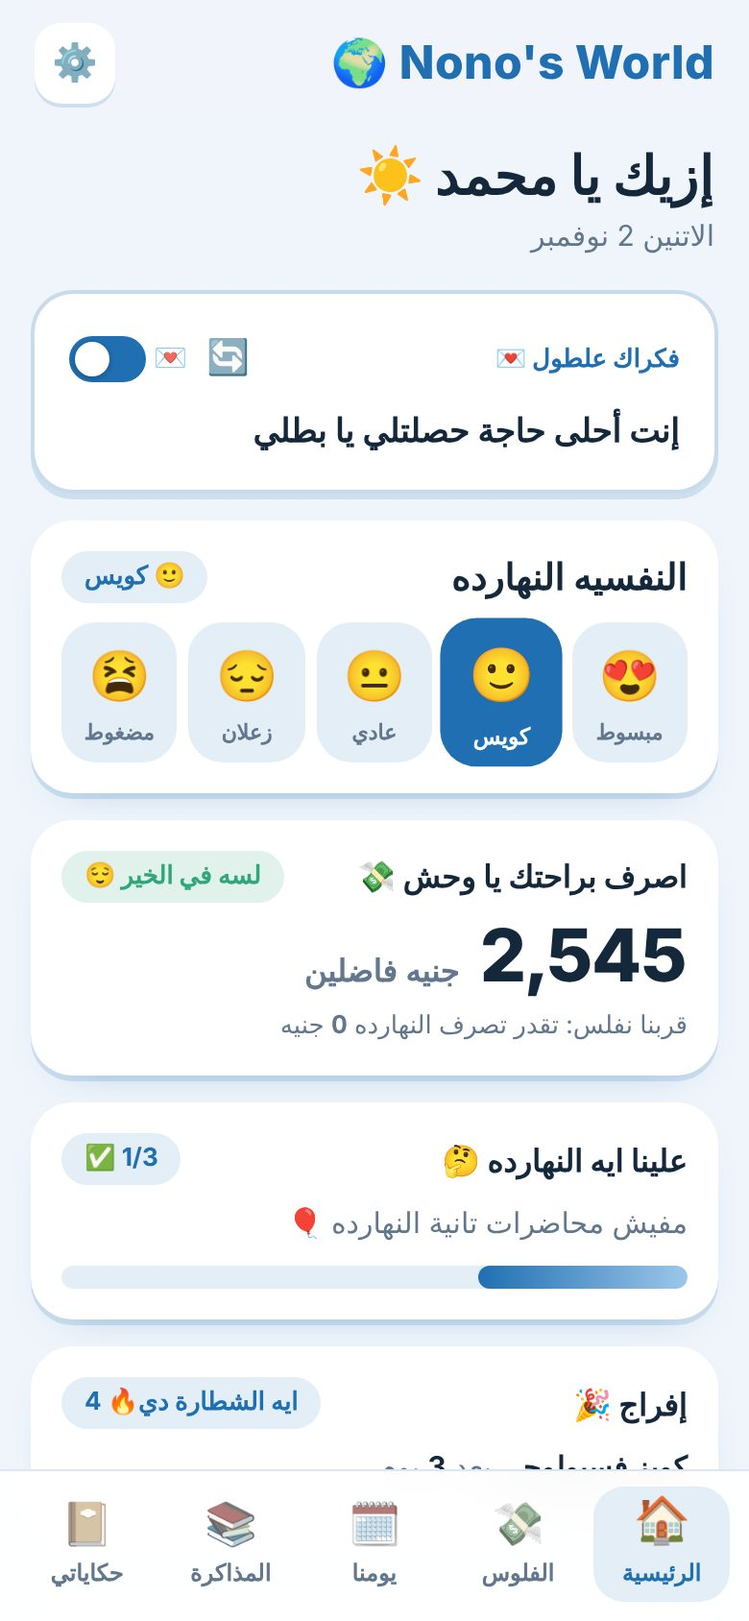
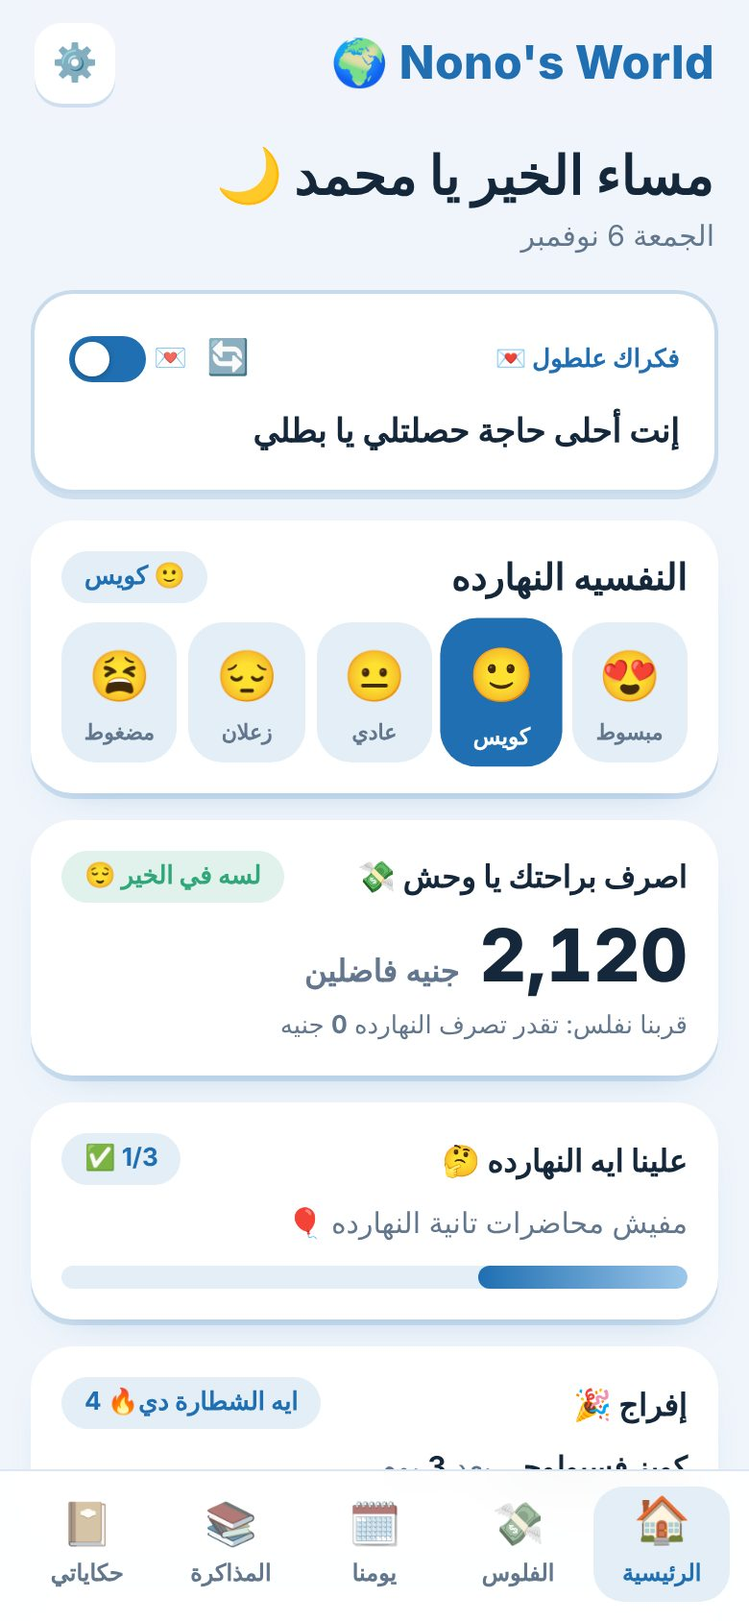
Site: precise boy wording, rating card masculine, new 'and more' features section, boy screenshots for money/diary/study; app: boy care category, EN she's listening
Claude-Session: https://claude.ai/code/session_01L6yT9p9SYsiwm5kwWL3RGK

Changed region(s): [[0.4, 0.0924, 0.9538, 0.154], [0.7385, 0.5545, 0.9231, 0.6161], [0.3077, 0.0924, 0.3692, 0.154]]

diff --git a/site/index.html b/site/index.html
@@ -203,6 +203,8 @@ footer{text-align:center;color:var(--muted);padding:40px 20px 60px}
   .logo{font-size:18px}.logo img{width:34px;height:34px}
 }
 @media (prefers-reduced-motion:reduce){*{animation:none!important;transition:none!important}}
+  .band.band6{grid-template-columns:repeat(3,1fr)}
+  @media (max-width:820px){ .band.band6{grid-template-columns:1fr} }
 </style>
 </head>
 <body>
@@ -255,7 +257,7 @@ footer{text-align:center;color:var(--muted);padding:40px 20px 60px}
 
   <section class="block">
     <div class="wrap">
-      <div class="sec-title reveal"><h2><span data-l="ar">كل اللي محتاجاه، في مكان واحد</span><span data-l="en">Everything you need, in one place</span></h2>
+      <div class="sec-title reveal"><h2><span data-l="ar" data-boy="كل اللي محتاجه، في مكان واحد">كل اللي محتاجاه، في مكان واحد</span><span data-l="en">Everything you need, in one place</span></h2>
         <p><span data-l="ar">من غير إعلانات، ومن غير لف بين عشر تطبيقات.</span><span data-l="en">No ads, no juggling ten different apps.</span></p></div>
 
       <div class="features">
@@ -281,7 +283,7 @@ footer{text-align:center;color:var(--muted);padding:40px 20px 60px}
           <div class="f-media"><div class="phone sm"><div class="screen"><img data-src="diary" class="on" alt="" loading="lazy"></div></div></div>
           <div><div class="em">📔</div>
             <h3><span data-l="ar">دفتر حكاياتي… وحد بيرد عليكي</span><span data-l="en">A diary that talks back</span></h3>
-            <p><span data-l="ar">احكي زي الشات بالظبط. هيرد عليكي بكلام شريكك اللي كاتبه بنفسه، ولو هو فاضي هيرد عليكي بجد.</span><span data-l="en">Write like you're chatting. Replies come in your partner's own words, and when they're around, they reply for real.</span></p>
+            <p><span data-l="ar" data-boy="احكي زي الشات بالظبط. هيرد عليك بكلام شريكتك اللي كاتباه بنفسها، ولو هي فاضية هترد عليك بجد.">احكي زي الشات بالظبط. هيرد عليكي بكلام شريكك اللي كاتبه بنفسه، ولو هو فاضي هيرد عليكي بجد.</span><span data-l="en">Write like you're chatting. Replies come in your partner's own words, and when they're around, they reply for real.</span></p>
             <ul><li><span data-l="ar">💬 "لو قالت كذا… يبقى الرد كذا"</span><span data-l="en">💬 "If she says this… reply with that"</span></li><li><span data-l="ar">✨ شات جديد في أي وقت، والقديم محفوظ</span><span data-l="en">✨ Start a fresh chat anytime, old ones are saved</span></li></ul>
           </div>
         </div>
@@ -291,7 +293,7 @@ footer{text-align:center;color:var(--muted);padding:40px 20px 60px}
           <div>
             <h3><span data-l="ar">النفسيه والدلع</span><span data-l="en">Mood and pamper time</span></h3>
             <p><span data-l="ar">مودك النهارده، كوبايات المية، نجوم الاهتمام بنفسك، ساعات النوم، والصلوات الخمس. وفي أيام البريود التطبيق بيدلّعك أكتر ويقول لشريكك يهتم بيكي.</span><span data-l="en">Today's mood, water, self-care stars, sleep and the five prayers. On your period the app pampers you more and nudges your partner to care extra.</span></p>
-            <ul><li><span data-l="ar">⏰ صحّيني: منبّه برسالة صباح الخير منه</span><span data-l="en">⏰ Wake me up: an alarm with a good-morning note from them</span></li><li><span data-l="ar">💌 فاكرك علطول: رسايل حب طول اليوم</span><span data-l="en">💌 Thinking of you: love notes all day</span></li></ul>
+            <ul><li><span data-l="ar" data-boy="⏰ صحّيني: منبّه برسالة صباح الخير منها">⏰ صحّيني: منبّه برسالة صباح الخير منه</span><span data-l="en">⏰ Wake me up: an alarm with a good-morning note from them</span></li><li><span data-l="ar" data-boy="💌 فكراك علطول: رسايل حب طول اليوم (للمرتبطين)">💌 فاكرك علطول: رسايل حب طول اليوم (للمرتبطين)</span><span data-l="en">💌 Thinking of you: love notes all day</span></li></ul>
           </div>
         </div>
 
@@ -299,7 +301,7 @@ footer{text-align:center;color:var(--muted);padding:40px 20px 60px}
           <div class="f-media"><div class="phone sm"><div class="screen"><img data-src="partner" class="on" alt="" loading="lazy"></div></div></div>
           <div><div class="em">💞</div>
             <h3><span data-l="ar">إنتي وشريك حياتك</span><span data-l="en">You and your partner</span></h3>
-            <p><span data-l="ar">اربطوا حسابكم بكود. هو يشوف اللي إنتي سامحة بيه بس، ويجيله تنبيه أول ما تبقي مضايقة علشان يكون جنبك. وهو كمان بيسجّل يومه وإنتي تشوفيه.</span><span data-l="en">Link with a code. They only see what you allow, and get an alert when you're upset so they can be there. They log their day too, and you see it.</span></p>
+            <p><span data-l="ar" data-boy="اربطوا حسابكم بكود. هي تشوف اللي إنت سامح بيه بس، ويجيلها تنبيه أول ما تبقى مضايق علشان تكون جنبك. وهي كمان بتسجّل يومها وإنت تشوفه. ولكم شات &quot;إحنا 💞&quot; خاص بيكم إنتوا الاتنين.">اربطوا حسابكم بكود. هو يشوف اللي إنتي سامحة بيه بس، ويجيله تنبيه أول ما تبقي مضايقة علشان يكون جنبك. وهو كمان بيسجّل يومه وإنتي تشوفيه. وليكم شات "إحنا 💞" خاص بيكم إنتوا الاتنين.</span><span data-l="en">Link with a code. They only see what you allow, and get an alert when you're upset so they can be there. They log their day too, and you see it.</span></p>
             <ul><li><span data-l="ar">🔒 إنتي اللي بتختاري هو يشوف إيه</span><span data-l="en">🔒 You choose what they see</span></li><li><span data-l="ar">🧢 للولاد كمان: الكلام كله بصيغة الولد</span><span data-l="en">🧢 For guys too, worded just for them</span></li></ul>
           </div>
         </div>
@@ -324,6 +326,20 @@ footer{text-align:center;color:var(--muted);padding:40px 20px 60px}
           <p><span data-l="ar">اعملي جروب وابعتي الكود لصحابك، وادردشوا مع بعض في شات منفصل عن حكاياتك.</span><span data-l="en">Make a group, send the code to your friends, and chat together, separate from your diary.</span></p>
           <ul><li><span data-l="ar">🔗 كود واحد والكل يدخل</span><span data-l="en">🔗 One code and everyone's in</span></li><li><span data-l="ar">🚩 بلاغ وفلتر للشتايم في الجروبات كمان</span><span data-l="en">🚩 Report button and bad-word filter in groups too</span></li></ul>
         </div>
+      </div>
+    </div>
+  </section>
+
+  <section class="block">
+    <div class="wrap">
+      <div class="sec-title reveal"><h2><span data-l="ar">وكمان ✨</span><span data-l="en">And there's more ✨</span></h2><p><span data-l="ar">حاجات صغيرة بتفرق في يومك.</span><span data-l="en">Little things that make your day.</span></p></div>
+      <div class="band band6 reveal">
+        <div><b>🕌 <span data-l="ar">الصلاة والأذكار</span><span data-l="en">Prayer & azkar</span></b><p><span data-l="ar">مواعيد الصلاة على حسب مكانك، وإشعار الأذان، وأذكار الصباح والمساء بعدّاد، وتذكير سورة الكهف يوم الجمعة وصيام الاثنين والخميس (للمسلمين).</span><span data-l="en">Prayer times for your location, adhan alerts, morning & evening azkar with a counter, and Friday Kahf reminders (for Muslims).</span></p></div>
+        <div><b>👭 <span data-l="ar">صحابك</span><span data-l="en">Your friends</span></b><p><span data-l="ar">ضيفي صحابك بكود، وشاركيهم "عملت إيه النهارده" بدوسة (نزلت الجيم، خدت دش…)، واتكلموا في شات. ومش بيشوفوا حاجة غير اللي إنتي اخترتيه.</span><span data-l="en">Add friends with a code, share "what I did today" in a tap, and chat. They only see what you choose.</span></p></div>
+        <div><b>🟢 <span data-l="ar">فاتح دلوقتي</span><span data-l="en">Online now</span></b><p><span data-l="ar">علامة خضرا تعرّفك إن شريكك أو صاحبك فاتح التطبيق دلوقتي، و"آخر ظهور" لو مش فاتح.</span><span data-l="en">A green dot shows when your partner or friend has the app open, with "last seen" otherwise.</span></p></div>
+        <div><b>🎓 <span data-l="ar">جامعة، مدرسة، أو شغل</span><span data-l="en">Uni, school or work</span></b><p><span data-l="ar">اختاري إنتي فين: محاضرات للجامعة، دروس للمدرسة، ولو متخرّجة يبقى قسم الشغل اللي وراكي ومواعيده.</span><span data-l="en">Lectures for uni, lessons for school, and a work tracker with deadlines once you graduate.</span></p></div>
+        <div><b>🔔 <span data-l="ar">إشعارات وتذكيرات</span><span data-l="en">Alerts & reminders</span></b><p><span data-l="ar">رسايل الشريك والصحاب والجروبات توصلك حتى والتطبيق مقفول، وتذكير كل كام ساعة تسجّلي مصاريفك ومهامك.</span><span data-l="en">Messages reach you even when the app is closed, plus reminders every few hours to log spending and tasks.</span></p></div>
+        <div><b>💪 <span data-l="ar">تشجيع على قدّك</span><span data-l="en">Encouragement your way</span></b><p><span data-l="ar">لو مش مرتبطة، التطبيق بيكلّمك بتشجيع بس من غير أي كلام حب. ولو مرتبطة، تقدري تقفلي كلام الحب بزرار.</span><span data-l="en">Not in a relationship? Just encouragement, no love notes. In one? Turn love notes off with a switch.</span></p></div>
       </div>
     </div>
   </section>
@@ -416,9 +432,9 @@ footer{text-align:center;color:var(--muted);padding:40px 20px 60px}
       <div class="sec-title reveal"><h2><span data-l="ar">أسئلة بتتسأل كتير</span><span data-l="en">Questions people ask</span></h2></div>
       <div class="faq reveal">
         <details><summary><span data-l="ar">هو مجاني؟</span><span data-l="en">Is it free?</span></summary><p><span data-l="ar">أيوه، مجاني ومن غير إعلانات.</span><span data-l="en">Yes, free and without ads.</span></p></details>
-        <details><summary><span data-l="ar">لازم يكون عندي شريك؟</span><span data-l="en">Do I need a partner?</span></summary><p><span data-l="ar">لأ، التطبيق كامل لوحدك، والرسايل الحلوة موجودة جاهزة. الشريك بيزوّد الحلاوة بس 💞</span><span data-l="en">No, it works fully on your own with sweet messages built in. A partner just makes it sweeter 💞</span></p></details>
-        <details><summary><span data-l="ar">بياناتي في أمان؟</span><span data-l="en">Is my data safe?</span></summary><p><span data-l="ar">بياناتك متحفوظة أونلاين على حسابك، وشريكك بيشوف اللي إنتي سامحة بيه بس. وصاحب التطبيق يقدر يوصلها لأغراض الإدارة ومنع الإساءة.</span><span data-l="en">Your data is stored online on your account, and your partner sees only what you allow. The app owner can access it to run the app and stop abuse.</span></p></details>
-        <details><summary><span data-l="ar">نسيت الباسورد؟</span><span data-l="en">Forgot your password?</span></summary><p><span data-l="ar">دوسي "نسيتي الباسورد؟" في صفحة الدخول، وصاحب التطبيق هيتأكد إنه حسابك ويبعتلك باسورد مؤقت.</span><span data-l="en">Tap "Forgot password?" on the sign-in page. The app owner will check it's you and send a temporary password.</span></p></details>
+        <details><summary><span data-l="ar" data-boy="لازم يكون عندي شريكة؟">لازم يكون عندي شريك؟</span><span data-l="en">Do I need a partner?</span></summary><p><span data-l="ar" data-boy="لأ، التطبيق كامل لوحدك. ومن غير شريكة بيكلّمك بكلام تشجيع بس، ولما ترتبط يبقى فيه رسايل حب كمان 💞">لأ، التطبيق كامل لوحدك. ومن غير شريك بيكلّمك بكلام تشجيع بس، ولما ترتبطي يبقى فيه رسايل حب كمان 💞</span><span data-l="en">No, it works fully on your own with sweet messages built in. A partner just makes it sweeter 💞</span></p></details>
+        <details><summary><span data-l="ar">بياناتي في أمان؟</span><span data-l="en">Is my data safe?</span></summary><p><span data-l="ar" data-boy="بياناتك متحفوظة أونلاين على حسابك، وشريكتك بتشوف اللي إنت سامح بيه بس. وصاحب التطبيق يقدر يوصلها لأغراض الإدارة ومنع الإساءة.">بياناتك متحفوظة أونلاين على حسابك، وشريكك بيشوف اللي إنتي سامحة بيه بس. وصاحب التطبيق يقدر يوصلها لأغراض الإدارة ومنع الإساءة.</span><span data-l="en">Your data is stored online on your account, and your partner sees only what you allow. The app owner can access it to run the app and stop abuse.</span></p></details>
+        <details><summary><span data-l="ar">نسيت الباسورد؟</span><span data-l="en">Forgot your password?</span></summary><p><span data-l="ar" data-boy="دوس &quot;نسيت الباسورد؟&quot; في صفحة الدخول، وصاحب التطبيق هيتأكد إنه حسابك ويبعتلك باسورد مؤقت.">دوسي "نسيت الباسورد؟" في صفحة الدخول، وصاحب التطبيق هيتأكد إنه حسابك ويبعتلك باسورد مؤقت.</span><span data-l="en">Tap "Forgot password?" on the sign-in page. The app owner will check it's you and send a temporary password.</span></p></details>
         <details><summary><span data-l="ar">فيه إنجليزي؟</span><span data-l="en">Is there Arabic and English?</span></summary><p><span data-l="ar">أيوه، من الإعدادات تقدري تقلبيه English.</span><span data-l="en">Yes, switch between Arabic and English in Settings.</span></p></details>
       </div>
     </div>
@@ -433,7 +449,7 @@ footer{text-align:center;color:var(--muted);padding:40px 20px 60px}
   var root = document.documentElement;
   function setImgs(l){
     var boy = root.classList.contains("boy");
-    document.querySelectorAll("img[data-src]").forEach(function(im){ var n = im.getAttribute("data-src"); if (boy && (n === "home" || n === "study") && (im.closest("#carousel") || n === "home")) n = "boy-" + n; im.src = "img/" + n + "-" + l + ".jpg"; im.alt = ""; });
+    document.querySelectorAll("img[data-src]").forEach(function(im){ var n = im.getAttribute("data-src"); if (boy && ["home","study","money","diary"].indexOf(n) >= 0) n = "boy-" + n; im.src = "img/" + n + "-" + l + ".jpg"; im.alt = ""; });
     document.querySelectorAll("img[data-boy]").forEach(function(im){ im.src = "img/" + im.getAttribute("data-boy") + "-" + l + ".jpg"; im.alt = ""; });
   }
   function setLang(l){
@@ -455,13 +471,14 @@ footer{text-align:center;color:var(--muted);padding:40px 20px 60px}
   document.getElementById("lang").onclick = function(){ setLang(root.lang === "en" ? "ar" : "en"); };
 
   // girl / guy wording
-  var MASC = {"حمّلي":"حمّل","حمّليه":"حمّله","قيّمي":"قيّم","وجرّبي":"وجرّب","جرّبيه":"جرّبه","اختاري":"اختار","واختاري":"واختار","اصرفي":"اصرف","يا بسبوسه":"يا وحش","بسبوسه":"وحش","اظبطي":"اظبط","افتحي":"افتح","وافتحيه":"وافتحه","انزلي":"انزل","إنتي":"إنت","وإنتي":"وإنت","بتختاري":"بتختار","بتذاكري":"بتذاكر","بتقرري":"بتقرر","بيكي":"بيك","تبقي":"تبقى","تسجّليها":"تسجّلها","تشوفيه":"تشوفه","تصرفي":"تصرف","تقدري":"تقدر","تقفلي":"تقفل","تقلبيه":"تقلبه","تكتبي":"تكتب","جنبك":"جنبك","دوسي":"دوس","ودوسي":"ودوس","سامحة":"سامح","عليكي":"عليك","مضايقة":"مضايق","نسيتي":"نسيت","وأضيفي":"وأضيف","وارجعي":"وارجع","واعملي":"واعمل","وامشي":"وامشي","وتفكّي":"وتفكّ","وحطي":"وحط","وشوفي":"وشوف","وفعّلي":"وفعّل","ومعاكي":"ومعاك","وابعتي":"وابعت","اعملي":"اعمل","شريك حياتك":"شريكة حياتك","وشريك حياتك":"وشريكة حياتك","شريكك":"شريكتك","لشريكك":"لشريكتك","وشريكك":"وشريكتك","يطمّن":"تطمّن","ويرد":"وترد","ويفتكرك":"وتفتكرك","يدلّعك":"يدلّعك","بيدلّعك":"بيدلّعك","يهتم":"تهتم","يشوف":"تشوف","هو يشوف":"هي تشوف","يجيله":"يجيلها","يكون":"تكون","يرد":"ترد","هيرد":"هترد","وادردشوا":"وادردشوا"};
+  var MASC = {"حمّلي":"حمّل","صرفتي":"صرفت","ضيفي":"ضيف","وشاركيهم":"وشاركهم","اخترتيه":"اخترته","متخرّجة":"متخرّج","وراكي":"وراك","تسجّلي":"تسجّل","مرتبطة":"مرتبط","ابعتي":"ابعت","حمّليه":"حمّله","قيّمي":"قيّم","وجرّبي":"وجرّب","جرّبيه":"جرّبه","اختاري":"اختار","واختاري":"واختار","اصرفي":"اصرف","يا بسبوسه":"يا وحش","بسبوسه":"وحش","اظبطي":"اظبط","افتحي":"افتح","وافتحيه":"وافتحه","انزلي":"انزل","إنتي":"إنت","وإنتي":"وإنت","بتختاري":"بتختار","بتذاكري":"بتذاكر","بتقرري":"بتقرر","بيكي":"بيك","تبقي":"تبقى","تسجّليها":"تسجّلها","تشوفيه":"تشوفه","تصرفي":"تصرف","تقدري":"تقدر","تقفلي":"تقفل","تقلبيه":"تقلبه","تكتبي":"تكتب","جنبك":"جنبك","دوسي":"دوس","ودوسي":"ودوس","سامحة":"سامح","عليكي":"عليك","مضايقة":"مضايق","نسيتي":"نسيت","وأضيفي":"وأضيف","وارجعي":"وارجع","واعملي":"واعمل","وامشي":"وامشي","وتفكّي":"وتفكّ","وحطي":"وحط","وشوفي":"وشوف","وفعّلي":"وفعّل","ومعاكي":"ومعاك","وابعتي":"وابعت","اعملي":"اعمل","شريك حياتك":"شريكة حياتك","وشريك حياتك":"وشريكة حياتك","شريكك":"شريكتك","لشريكك":"لشريكتك","وشريكك":"وشريكتك","يطمّن":"تطمّن","ويرد":"وترد","ويفتكرك":"وتفتكرك","يدلّعك":"يدلّعك","بيدلّعك":"بيدلّعك","يهتم":"تهتم","يشوف":"تشوف","هو يشوف":"هي تشوف","يجيله":"يجيلها","يكون":"تكون","يرد":"ترد","هيرد":"هترد","وادردشوا":"وادردشوا"};
   var keys = Object.keys(MASC).sort(function(a,b){ return b.length - a.length; });
   var RE = new RegExp("(^|[^\\u0621-\\u064A\\u0671-\\u06D3])(" + keys.map(function(k){ return k.replace(/[.*+?^${}()|[\]\\]/g, "\\$&"); }).join("|") + ")(?![\\u0621-\\u064A\\u0671-\\u06D3])", "g");
   var orig = new Map();
   function walk(on){
     document.querySelectorAll('[data-l="ar"]').forEach(function(el){
-      if (el.closest("#gender") || el.closest(".ded") || el.closest(".ded-foot") || el.closest("#rv")) return;
+      if (el.closest("#gender") || el.closest(".ded") || el.closest(".ded-foot") || el.closest("#rv .review:not(.summary)")) return;
+      if (el.hasAttribute("data-boy")){ if (!el.hasAttribute("data-girl")) el.setAttribute("data-girl", el.textContent); el.textContent = on ? el.getAttribute("data-boy") : el.getAttribute("data-girl"); return; }
       var tw = document.createTreeWalker(el, NodeFilter.SHOW_TEXT), n;
       while ((n = tw.nextNode())){ if (!orig.has(n)) orig.set(n, n.nodeValue); var o = orig.get(n); n.nodeValue = on ? o.replace(RE, function(m, pre, w){ return pre + MASC[w]; }) : o; }
     });
@@ -473,7 +490,7 @@ footer{text-align:center;color:var(--muted);padding:40px 20px 60px}
   function setGender(g){
     root.classList.toggle("boy", g === "m");
     walk(g === "m");
-    document.querySelectorAll("#carousel img[data-src='home'], .features img[data-src='home']").forEach(function(im){ im.src = "img/" + (g === "m" ? "boy-home" : "home") + "-" + (root.lang || "ar") + ".jpg"; });
+    document.querySelectorAll("img[data-src='home'], img[data-src='money'], img[data-src='diary'], img[data-src='study']").forEach(function(im){ var n = im.getAttribute("data-src"); im.src = "img/" + (g === "m" ? "boy-" + n : n) + "-" + (root.lang || "ar") + ".jpg"; });
     document.querySelectorAll("#carousel img[data-src='study']").forEach(function(im){ im.src = "img/" + (g === "m" ? "boy-study" : "study") + "-" + (root.lang || "ar") + ".jpg"; });
     document.querySelectorAll(".gpick button").forEach(function(b){ b.setAttribute("aria-pressed", b.getAttribute("data-g") === g); });
     try { localStorage.setItem("nw-site-g", g); } catch(e){}

diff --git a/web/app.js b/web/app.js
@@ -46,7 +46,7 @@ const MOODS = [
 const CATS = [
   {k:"food",e:"🍔",t:"أكل",c:"#f08a5d"},{k:"ride",e:"🚕",t:"مواصلات",c:"#f6c445"},{k:"clothes",e:"👗",t:"لبس",c:"#e85d8a"},
   {k:"uni",e:"📚",t:"كلية",c:"#7f6ad6"},{k:"out",e:"🎡",t:"خروجات",c:"#43b3ae"},{k:"gift",e:"🎁",t:"هدايا",c:"#d65aa0"},
-  {k:"care",e:"💄",t:"ميكب وعناية",c:"#ff9fb7"},{k:"other",e:"✨",t:"حاجات تانية",c:"#a3a3b5"}
+  {k:"care", get e(){ return (typeof S !== "undefined" && S && S.user && S.user.gender === "m") ? "🧴" : "💄"; }, get t(){ return (typeof S !== "undefined" && S && S.user && S.user.gender === "m") ? "عناية شخصية" : "ميكب وعناية"; }, c:"#ff9fb7"},{k:"other",e:"✨",t:"حاجات تانية",c:"#a3a3b5"}
 ];
 const GTYPES = ["كويز","ميدترم","فاينل"];
 const SHARE = [["mood","النفسيه 💭"],["diary","دفتر حكاياتي 📔"],["study","المذاكرة والدرجات 📚"],["day","يومي ومهماتي 🗓"],["money","الفلوس 💸"],["care","الدلع"]];
@@ -209,7 +209,7 @@ const isMale = () => !!(S && S.user && S.user.gender === "m");
 const LANG = () => (S && S.lang) || (() => { try { return localStorage.getItem("nw-lang") || "ar"; } catch(e){ return "ar"; } })();
 const isEN = () => LANG() === "en";
 const TR_RE = new RegExp("(^|[^\\u0621-\\u064A\\u0671-\\u06D3])(" + Object.keys(EN).sort((a,b)=>b.length-a.length).map(k=>k.replace(/[.*+?^${}()|[\]\\]/g,"\\$&")).join("|") + ")(?![\\u0621-\\u064A\\u0671-\\u06D3])", "g");
-const EN_M = [[/\bcupcake\b/g,"champ"],[/Did it, Nono/g,"Did it, hero"],[/^Nono!$/g,"hero!"]];
+const EN_M = [[/\bcupcake\b/g,"champ"],[/Did it, Nono/g,"Did it, hero"],[/^Nono!$/g,"hero!"],[/he's listening/g,"she's listening"]];
 const trRaw = (str, male) => { let o = String(str).replace(TR_RE, (m, pre, w) => pre + EN[w]); if (male) EN_M.forEach(([r,v]) => o = o.replace(r, v)); return o; };
 const splitMarks = h => String(h).split(/([^]*)/);
 const mascKeep = h => splitMarks(h).map(x => x[0] === "" ? x : mascRaw(x)).join("");

diff --git a/web/en.js b/web/en.js
@@ -45,7 +45,7 @@ export const EN = {
 "شغالة مذاكرة أو درجاتك حلوة، كمّلي كده":"You're studying or your grades are good, keep going","يلا نذاكر شوية أو نجيب درجة حلوة ونطلع إفراج":"Let's study a bit or get a good grade and break free",
 "ذاكرتي":"Studied","من 7 أيام":"of 7 days","آخر درجة":"last grade","خلص":"Done","النهارده!":"Today!","مفيش امتحانات متسجلة":"No exams yet","درجاتي":"My grades","سجّلي درجة":"Add a grade",
 "لسه مفيش درجات":"No grades yet","المواد":"Subjects","متوسط":"Average","منها":"from her","بجد":"for real","بلّغي":"Report","بيكتب":"typing","احكي يا":"Talk to me,",
-"سامعاك":"is listening","سامعك":"is listening","هو سامعك":"he's listening","شات جديد":"New chat","الشاتات القديمة":"Old chats","لسه مفيش حكايات… ابدئي إنتي":"No stories yet… you start",
+"سامعاك":"is listening","سامعك":"is listening","هو سامعك":"he's listening","هي سامعاك":"she's listening","عناية شخصية":"Personal care","شات جديد":"New chat","الشاتات القديمة":"Old chats","لسه مفيش حكايات… ابدئي إنتي":"No stories yet… you start",
 "اكتبي حكايتك":"Write your story","ابعتي":"Send","مخبّية":"is hiding","مخبّي":"is hiding","القسم ده":"this section",
 "محتاجة اهتمام ودلع زيادة الأيام دي":"needs extra care and pampering these days","اهتم بيها أكتر، ابعتلها كلمة حلوة أو جيبلها حاجة بتحبها":"Care for her more, send her something sweet or get her something she loves",
 "ابعتلها":"Send her","مضايقة":"is upset","مضايق":"is upset","اختارت":"picked","اختار":"picked","كتبت":"wrote","كتب":"wrote","حكاية زعلانة":"a sad story","كلّمها":"talk to her","كلّمه":"talk to him",
